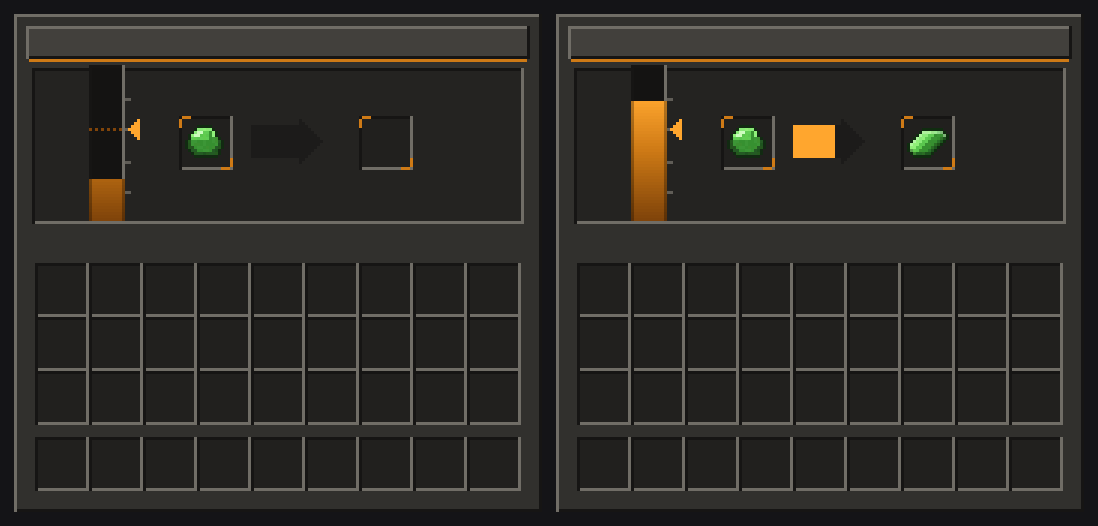
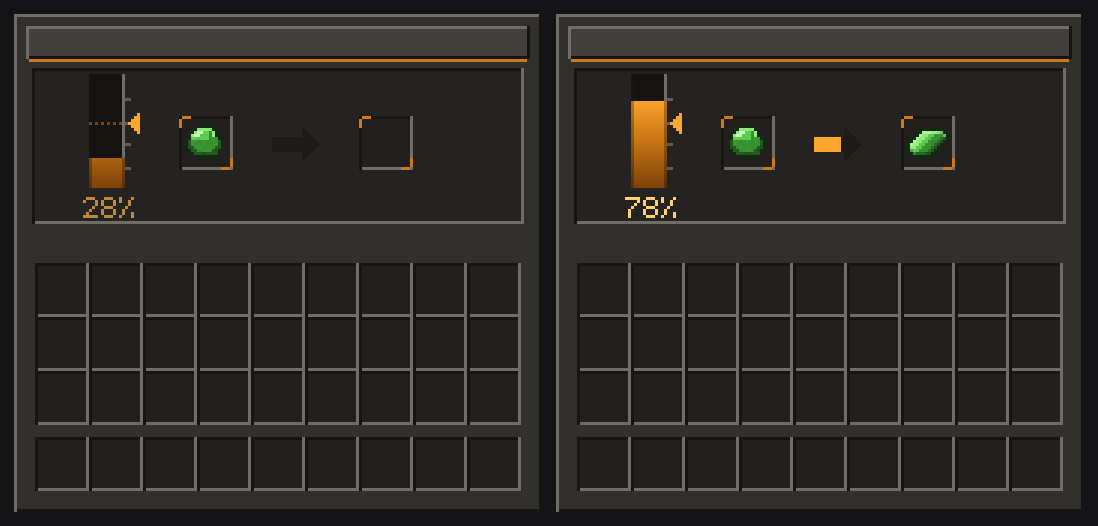
Shrink the progress arrow, print heat as a number
The arrow was oversized for the gap between the slots: it drops from
24x17 to 16x11 and is recentred at 86,38 so it sits between the input and
output slots rather than crowding them. Both the etched arrow in the panel
and the fill sprite now come from one shared drawing helper instead of two
copies of the same loops, so the two can no longer drift apart. Removes a
dead local left over from that duplication.

The heat gauge was readable only as a bar against the threshold notch.
The screen now prints the current heat as a percentage under the gauge,
coloured dim amber below the operating temperature and bright above it, so
the value can be read directly. The gauge shortens from 52 to 38 px and
moves down 3 px to make room; the generator and the screen share those
constants. The hover tooltip switches to the raw figure (Heat: 740 / 1000)
now that the percentage is always on screen.

preview_gui.py gains a small 5x7 digit font so the mock-up shows the
readout in place rather than an empty gap, which is what the layout has to
be judged on.

Verified assets still resolve and the mod still loads and refines on a
dedicated server.

Claude-Session: https://claude.ai/code/session_01Ce4aKAQaA5yAKNMrb4K7Ch

diff --git a/uranium-mod/src/main/java/net/pero/uraniummod/client/screen/CentrifugeScreen.java b/uranium-mod/src/main/java/net/pero/uraniummod/client/screen/CentrifugeScreen.java
@@ -15,8 +15,9 @@ public class CentrifugeScreen extends HandledScreen<CentrifugeScreenHandler> {
 			Identifier.of(UraniumMod.MOD_ID, "textures/gui/centrifuge.png");
 
 	// must match the layout written by tools/gen_textures.py
-	private static final int HEAT_X = 25, HEAT_Y = 17, HEAT_W = 12, HEAT_H = 52;
-	private static final int ARROW_X = 79, ARROW_Y = 34, ARROW_W = 24, ARROW_H = 17;
+	private static final int HEAT_X = 25, HEAT_Y = 20, HEAT_W = 12, HEAT_H = 38;
+	private static final int HEAT_TEXT_Y = 61;
+	private static final int ARROW_X = 86, ARROW_Y = 38, ARROW_W = 16, ARROW_H = 11;
 	private static final int HEAT_U = 200, ARROW_U = 176;
 
 	public CentrifugeScreen(CentrifugeScreenHandler handler, PlayerInventory inventory, Text title) {
@@ -26,6 +27,8 @@ public class CentrifugeScreen extends HandledScreen<CentrifugeScreenHandler> {
 	// the console panel is dark, so the default near-black label colour is unreadable
 	private static final int TITLE_COLOUR = 0xF0E4CE;
 	private static final int LABEL_COLOUR = 0xB9B2A5;
+	private static final int HEAT_COLD_COLOUR = 0xC08A3C;
+	private static final int HEAT_READY_COLOUR = 0xFFD070;
 
 	@Override
 	protected void init() {
@@ -39,6 +42,14 @@ public class CentrifugeScreen extends HandledScreen<CentrifugeScreenHandler> {
 		context.drawText(textRenderer, title, titleX, titleY, TITLE_COLOUR, false);
 		context.drawText(textRenderer, playerInventoryTitle,
 				playerInventoryTitleX, playerInventoryTitleY, LABEL_COLOUR, false);
+
+		// numeric readout under the gauge, so the heat is legible without
+		// having to eyeball the bar against the threshold notch
+		String percent = handler.getHeatPercent() + "%";
+		int textWidth = textRenderer.getWidth(percent);
+		context.drawText(textRenderer, percent,
+				HEAT_X + HEAT_W / 2 - textWidth / 2, HEAT_TEXT_Y,
+				handler.isHotEnough() ? HEAT_READY_COLOUR : HEAT_COLD_COLOUR, false);
 	}
 
 	@Override
@@ -73,13 +84,13 @@ public class CentrifugeScreen extends HandledScreen<CentrifugeScreenHandler> {
 		int y = (height - backgroundHeight) / 2;
 		if (mouseX >= x + HEAT_X && mouseX < x + HEAT_X + HEAT_W
 				&& mouseY >= y + HEAT_Y && mouseY < y + HEAT_Y + HEAT_H) {
-			int percent = handler.getHeat() * 100 / Math.max(1, handler.getMaxHeat());
 			Text status = handler.isHotEnough()
 					? Text.translatable("screen.uraniummod.centrifuge.ready").formatted(Formatting.GREEN)
 					: Text.translatable("screen.uraniummod.centrifuge.warming").formatted(Formatting.GRAY);
 			context.drawTooltip(textRenderer,
 					java.util.List.of(
-							Text.translatable("screen.uraniummod.centrifuge.heat", percent),
+							Text.translatable("screen.uraniummod.centrifuge.heat",
+									handler.getHeat(), handler.getMaxHeat()),
 							status),
 					mouseX, mouseY);
 		}

diff --git a/uranium-mod/tools/preview_gui.py b/uranium-mod/tools/preview_gui.py
@@ -37,12 +37,48 @@ def wr(p, px):
         + ch(b'IHDR', struct.pack(">IIBBBBB", w, h, 8, 6, 0, 0, 0))
         + ch(b'IDAT', zlib.compress(raw, 9)) + ch(b'IEND', b''))
 
+# Minimal 5x7 digit font, close enough to Minecraft's to judge the layout.
+GLYPHS = {
+    "0": [".###.", "#...#", "#...#", "#...#", "#...#", "#...#", ".###."],
+    "1": ["..#..", ".##..", "..#..", "..#..", "..#..", "..#..", ".###."],
+    "2": [".###.", "#...#", "....#", "...#.", "..#..", ".#...", "#####"],
+    "3": ["####.", "....#", "....#", ".###.", "....#", "....#", "####."],
+    "4": ["#...#", "#...#", "#...#", "#####", "....#", "....#", "....#"],
+    "5": ["#####", "#....", "#....", "####.", "....#", "#...#", ".###."],
+    "6": [".###.", "#...#", "#....", "####.", "#...#", "#...#", ".###."],
+    "7": ["#####", "....#", "...#.", "..#..", ".#...", ".#...", ".#..."],
+    "8": [".###.", "#...#", "#...#", ".###.", "#...#", "#...#", ".###."],
+    "9": [".###.", "#...#", "#...#", ".####", "....#", "#...#", ".###."],
+    "%": ["#...#", "#..#.", "...#.", "..#..", ".#...", ".#..#", "#...#"],
+}
+ADVANCE = 6
+
+def text_width(t):
+    return max(0, len(t) * ADVANCE - 1)
+
+def draw_text(px, t, tx, ty, col):
+    for k, chpos in enumerate(t):
+        g = GLYPHS.get(chpos)
+        if not g:
+            continue
+        for gy, row in enumerate(g):
+            for gx, c in enumerate(row):
+                if c == "#":
+                    yy, xx = ty + gy, tx + k * ADVANCE + gx
+                    if 0 <= yy < len(px) and 0 <= xx < len(px[0]):
+                        px[yy][xx] = col
+
 PW, PH = 176, 166
-HX, HY, HW, HH = 25, 17, 12, 52          # must match CentrifugeScreen
-AX, AY, AW, AH = 79, 34, 24, 17
+HX, HY, HW, HH = 25, 20, 12, 38          # must match CentrifugeScreen
+AX, AY, AW, AH = 86, 38, 16, 11
 g = rd(f"{RES}/textures/gui/centrifuge.png")
 raw_item = rd(f"{RES}/textures/item/raw_uranium.png")
 ingot = rd(f"{RES}/textures/item/uranium_ingot.png")
+
+HEAT_TEXT_Y = 61
+COLD_COL = (0xC0, 0x8A, 0x3C, 255)
+READY_COL = (0xFF, 0xD0, 0x70, 255)
+THRESHOLD = 0.60
 
 def shot(heat_frac, prog_frac, items):
     px = [[g[y][x] for x in range(PW)] for y in range(PH)]
@@ -61,6 +97,9 @@ def shot(heat_frac, prog_frac, items):
             for x in range(16):
                 c = spr[y][x]
                 if c[3]: px[sy + y][sx + x] = c
+    label = f"{int(round(heat_frac * 100))}%"
+    col = READY_COL if heat_frac >= THRESHOLD else COLD_COL
+    draw_text(px, label, HX + HW // 2 - text_width(label) // 2, HEAT_TEXT_Y, col)
     return px
 
 shots = [shot(0.28, 0.0, [(raw_item, 56, 35)]),

diff --git a/uranium-mod/tools/gen_textures.py b/uranium-mod/tools/gen_textures.py
@@ -484,8 +484,11 @@ P_HI    = (112, 109, 102, 255)
 P_LO    = (22, 21, 20, 255)
 SLOT_BG = (33, 32, 30, 255)
 
-HEAT_X, HEAT_Y, HEAT_W, HEAT_H = 25, 17, 12, 52
-ARROW_X, ARROW_Y, ARROW_W, ARROW_H = 79, 34, 24, 17
+# The gauge is shortened to leave room for the numeric readout the screen
+# draws underneath it. Keep these in step with CentrifugeScreen.
+HEAT_X, HEAT_Y, HEAT_W, HEAT_H = 25, 20, 12, 38
+ARROW_X, ARROW_Y, ARROW_W, ARROW_H = 86, 38, 16, 11
+SHAFT_LEN, SHAFT_TOP, SHAFT_BOT = 10, 3, 8
 THRESHOLD = 0.60          # keep in sync with OPERATING_HEAT / MAX_HEAT in Java
 
 def rect(px, x0, y0, x1, y1, c):
@@ -579,31 +582,24 @@ def make_gui(path):
             px[ty][x] = AMB_D
 
     # empty progress arrow, etched into the bay
-    def arrow_shape(ox, oy, col):
-        for i in range(3, 14):
-            for j in range(0, 16):
+    def draw_arrow(ox, oy, col):
+        mid = ARROW_H // 2
+        for i in range(SHAFT_TOP, SHAFT_BOT):               # shaft
+            for j in range(SHAFT_LEN):
                 px[oy + i][ox + j] = col
-        for i in range(ARROW_H):
-            w = 8 - abs(i - 8)
-            for j in range(16, min(ARROW_W, 16 + max(0, w))):
+        for i in range(ARROW_H):                            # head
+            w = (ARROW_W - SHAFT_LEN) - abs(i - mid)
+            for j in range(SHAFT_LEN, min(ARROW_W, SHAFT_LEN + max(0, w))):
                 px[oy + i][ox + j] = col
-    arrow_shape(ARROW_X, ARROW_Y, (28, 27, 26, 255))
+
+    draw_arrow(ARROW_X, ARROW_Y, (28, 27, 26, 255))
 
     # ---- overlay sprites sampled by the screen at draw time ----
-    filled = [[(0, 0, 0, 0) for _ in range(GW)] for _ in range(GH)]
-    def arrow_fill(ox, oy, col):
-        for i in range(3, 14):
-            for j in range(0, 16):
-                px[oy + i][ox + j] = col
-        for i in range(ARROW_H):
-            w = 8 - abs(i - 8)
-            for j in range(16, min(ARROW_W, 16 + max(0, w))):
-                px[oy + i][ox + j] = col
-    arrow_fill(176, 0, AMB_L)
+    draw_arrow(176, 0, AMB_L)
     for i in range(ARROW_H):                                # brighten the leading edge
-        w = 8 - abs(i - 8)
-        j = 15 + max(0, w)
-        if j < ARROW_W:
+        w = (ARROW_W - SHAFT_LEN) - abs(i - ARROW_H // 2)
+        j = SHAFT_LEN + max(0, w) - 1
+        if SHAFT_LEN <= j < ARROW_W:
             px[i][176 + j] = AMB_H
 
     for i in range(HEAT_H):

diff --git a/uranium-mod/src/main/java/net/pero/uraniummod/screen/CentrifugeScreenHandler.java b/uranium-mod/src/main/java/net/pero/uraniummod/screen/CentrifugeScreenHandler.java
@@ -77,6 +77,11 @@ public class CentrifugeScreenHandler extends ScreenHandler {
 		return getHeat() >= propertyDelegate.get(CentrifugeBlockEntity.PROP_OPERATING_HEAT);
 	}
 
+	/** Current heat as a whole percentage of maximum, for the on-screen readout. */
+	public int getHeatPercent() {
+		return getHeat() * 100 / getMaxHeat();
+	}
+
 	/** Height in pixels of the filled part of the heat gauge. */
 	public int getHeatScaled(int pixels) {
 		return getHeat() * pixels / getMaxHeat();

diff --git a/uranium-mod/README.md b/uranium-mod/README.md
@@ -90,8 +90,12 @@ temperature you're waiting for.
 *Left: cold, holding raw uranium, doing nothing. Right: up to temperature and
 refining.* The gauge is marked with tick marks, a dashed line at the operating
 temperature and an amber arrow pointing at it, so the target is visible rather
-than guessed. Hovering the gauge shows the exact percentage and whether it is
-hot enough yet.
+than guessed.
+
+The current heat is printed as a percentage under the gauge, and it changes
+colour once the machine is hot enough, so you can read the exact value instead
+of eyeballing the bar against the notch. Hovering the gauge shows the raw
+figure (`Heat: 740 / 1000`) and whether it is up to temperature.
 
 ### The block
 
